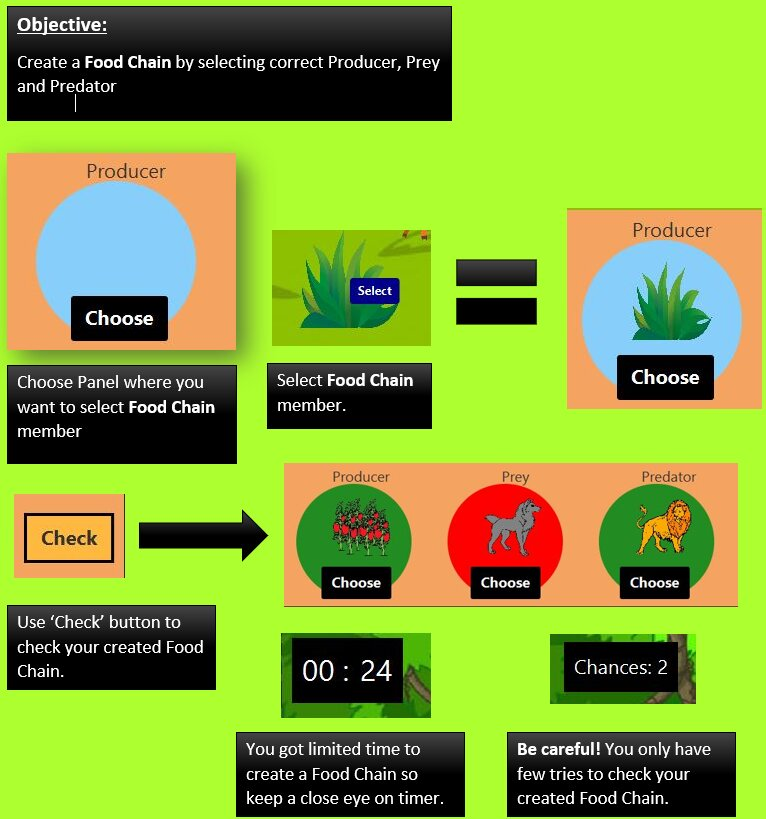
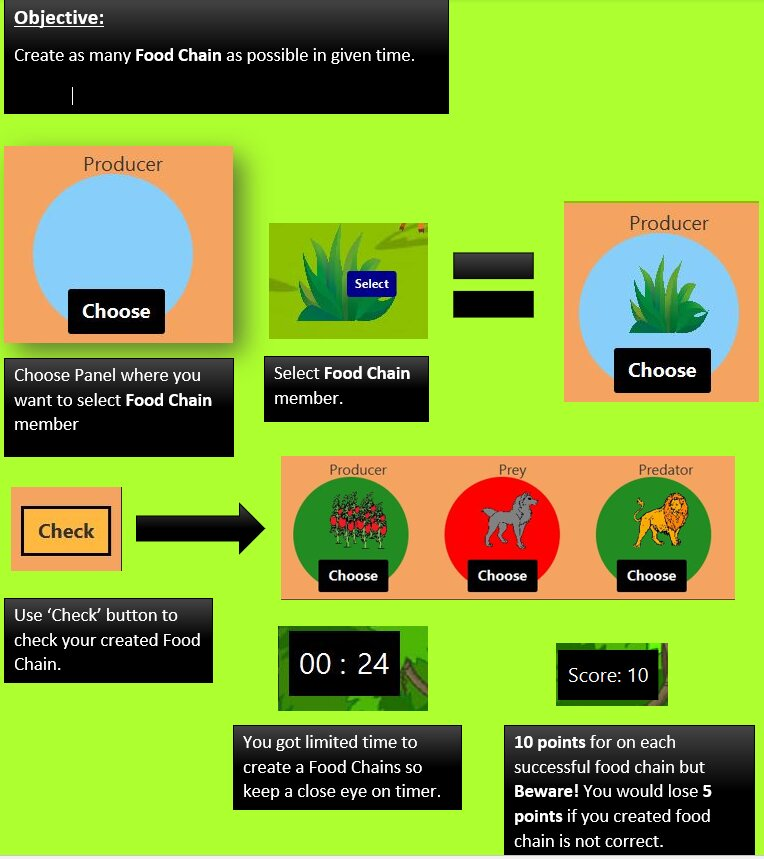
final update

diff --git a/src/main/java/uos/foodchaingame/FoodChainView.java b/src/main/java/uos/foodchaingame/FoodChainView.java
@@ -43,7 +43,7 @@ public class FoodChainView {
 	// Panels
 	protected Circle selectedProducer, selectedPrey, selectedPredator;
 	// Images of selected object on panels
-	private ImageView selectedProducerImg, selectedPreyImg, selectedPredatorImg;
+	protected ImageView selectedProducerImg, selectedPreyImg, selectedPredatorImg;
 	
 	// Button to select panels
 	protected Button chooseProducer, choosePrey, choosePredator, check;
@@ -65,9 +65,10 @@ public class FoodChainView {
 	
 	private Label objectiveHeading, objective;
 	
-	private int chances;
-	protected Label chancesLbl;
+	private int score;
+	protected Label scoreLbl;
 	
+	protected Label errorLbl;
 	private Label result;
 
 	/**
@@ -80,9 +81,7 @@ public class FoodChainView {
 		this.root = root;
 		this.model = model;
 		countDownTime = Timer.getInstance(); // Singleton and the only instance of Timer class
-		isWin = false;
-		isLose = false;
-		chances = 2;
+		score = 0;
 		
 		// Canvas to display all food chain members
 		jungle = new Canvas(1000, 600);
@@ -169,9 +168,15 @@ public class FoodChainView {
 		// Check if use has selected right members on right panels
 		check = new Button("Check");
 		check.setLayoutX(900);
-		check.setLayoutY(700);
+		check.setLayoutY(650);
 		check.setStyle("-fx-background-color: #ffb940; -fx-font-size: 20px; -fx-border-color: black; -fx-font-weight: bold; -fx-border-width: 3px;");
 		root.getChildren().add(check);
+		
+		errorLbl = new Label();
+		errorLbl.setLayoutX(670);
+		errorLbl.setLayoutY(750);
+		errorLbl.setStyle("-fx-font-size: 16px; -fx-font-weight: bold;");
+		root.getChildren().add(errorLbl);
 		
 		// Display timer seconds
 		seconds = new Label();
@@ -191,21 +196,21 @@ public class FoodChainView {
 		objectiveHeading = new Label("Objective");
 		objectiveHeading.setStyle("-fx-text-fill: #FFFFFF; -fx-font-size: 30px; -fx-font-weight: bold;");
 		
-		objective = new Label("* Create a FOOD CHAIN.");
+		objective = new Label("* Create as many Food Chain as \npossible in given time.");
 		objective.setStyle("-fx-text-fill: #FFFFFF;-fx-font-size: 20px;");
 		
 		VBox gameObjective = new VBox(5, objectiveHeading, objective);
-		gameObjective.setLayoutX(750);
+		gameObjective.setLayoutX(650);
 		gameObjective.setLayoutY(10);
 		gameObjective.setStyle("-fx-padding: 10px; -fx-background-color: black;");
 		root.getChildren().add(gameObjective);
 		
-		// Display chances left to finish the game
-		chancesLbl = new Label("Chances: " + chances);
-		chancesLbl.setLayoutX(200);
-		chancesLbl.setLayoutY(10);
-		chancesLbl.setStyle("-fx-padding: 10px; -fx-background-color: black; -fx-text-fill: white; -fx-font-size: 20px");
-		root.getChildren().add(chancesLbl);
+		// Display player score
+		scoreLbl = new Label("Score: " + score);
+		scoreLbl.setLayoutX(200);
+		scoreLbl.setLayoutY(10);
+		scoreLbl.setStyle("-fx-padding: 10px; -fx-background-color: black; -fx-text-fill: white; -fx-font-size: 20px");
+		root.getChildren().add(scoreLbl);
 	}
 	
 	/**
@@ -403,25 +408,52 @@ public class FoodChainView {
 				setMinutes(); // Display updated minutes
 				setSeconds(); // Display updated seconds
 				
-				// If count down time is over then stop the timer
-				if (countDownTime.getMinutes() == 0 & countDownTime.getSeconds() == 0)
+				// If count down time is over then stop the timer or if 
+				// player have guessed all possible food chains
+				if ((countDownTime.getMinutes() == 0 && countDownTime.getSeconds() == 0) || model.totalFoodChains() == model.foodChains.size())
 				{
-					timeline.stop();
-					// Set lose condition to true
-					isLose = true;
-					result.setText("Too Slow :(");
-					// System.out.println(isLose);
-				}
-				
-				// If one of the end condition is true
-				if (isLose || isWin)
-				{
-					timeline.stop(); // then stop timer
-					stage.setScene(scene); // change the scene or screen
+					timeline.stop(); // stop the timer
+					setResultText(); // Calculate the final percentage
+					stage.setScene(scene); // change the scene to result screen
 				}
 			}});
 		timeline.getKeyFrames().add(frame);
 		timeline.playFromStart();
+	}
+	
+	/**
+	 * Caculate the final percentage of the player
+	 */
+	private void setResultText()
+	{
+		int score = model.calculateTotalScore(this.score); // Player final score percentage
+		result.setText(score + "% ");
+		
+		// Set the final percentage on result screen with a message
+		// according to player's achieved percentage
+		if (score < 40)
+		{
+			result.setStyle("-fx-padding: 10px; -fx-background-color: red; -fx-text-fill: #ffffff; -fx-font-size: 80px; -fx-font-weight: bold;");
+			result.setText(result.getText() + ":( LOSER");
+		}
+		
+		if (score >= 40 && score < 65)
+		{
+			result.setStyle("-fx-padding: 10px; -fx-background-color: orange; -fx-font-size: 60px; -fx-font-weight: bold;");
+			result.setText(result.getText() + " bit faster next time");
+		}
+		
+		if (score >= 65 && score < 90)
+		{
+			result.setStyle("-fx-padding: 10px; -fx-background-color: #87ff69; -fx-font-size: 80px; -fx-font-weight: bold;");
+			result.setText(result.getText() + " Well Done");
+		}
+		
+		if (score >= 90)
+		{
+			result.setStyle("-fx-padding: 10px; -fx-background-color: green; -fx-text-fill: #ffffff; -fx-font-size: 80px; -fx-font-weight: bold;");
+			result.setText(result.getText() + ":) LEGEND");
+		}
 	}
 	
 	// Getters and Setters methods for Fields or class variables 
@@ -442,12 +474,12 @@ public class FoodChainView {
 		this.isLose = isLoser;
 	}
 	
-	public int getChances() {
-		return chances;
+	public int getScore() {
+		return score;
 	}
 
-	public void setChances(int chances) {
-		this.chances = chances;
+	public void setScore(int chances) {
+		this.score = chances;
 	}
 
 	public Stage getStage() {

diff --git a/src/main/java/uos/foodchaingame/FoodChainController.java b/src/main/java/uos/foodchaingame/FoodChainController.java
@@ -3,6 +3,8 @@
  */
 package uos.foodchaingame;
 
+import java.util.ArrayList;
+
 import javafx.event.Event;
 import javafx.event.EventHandler;
 import javafx.scene.paint.Color;
@@ -111,58 +113,74 @@ public class FoodChainController implements EventHandler{
 			boolean checkPrey = model.checkPanels(view.chosenPrey, model.prey);
 			boolean checkPredator = model.checkPanels(view.chosenPredator, model.predator);
 			
-//			System.out.println(checkProducer + " " + view.chosenProducer);
-//			System.out.println(checkPrey + " " + view.chosenPrey);
-//			System.out.println(checkPredator + " " + view.choosePredator);
+			ArrayList<GameObject> foodChain = new ArrayList<GameObject>();
+			foodChain.add(view.chosenProducer);
+			foodChain.add(view.chosenPrey);
+			foodChain.add(view.chosenPredator);
 			
 			// If player selected food chain member is correct
 			// Then use correct member strategy
 			// if not then use wrong member strategy
-			if (checkProducer)
-				view.setPanelStrategy(correctMemberStrategy);
-			else
-				view.setPanelStrategy(wrongMemberStrategy);
-			view.executePanelStrategy(view.selectedProducer);
-			
-			if (checkPrey)
-				view.setPanelStrategy(correctMemberStrategy);
-			else
-				view.setPanelStrategy(wrongMemberStrategy);
-			view.executePanelStrategy(view.selectedPrey);
-			
-			if (checkPredator)
-				view.setPanelStrategy(correctMemberStrategy);
-			else
-				view.setPanelStrategy(wrongMemberStrategy);
-			view.executePanelStrategy(view.selectedPredator);
-			
-			// If player created food chain is correct then
-			if (checkProducer && checkPrey && checkPredator)
+			// Check if player created Food Chain doesn't exist yet
+			if (!model.checkFoodChain(foodChain))
 			{
-				// Set Condition to win
-				view.setWin(true);
-				// Set result text on result screen 
-				view.getResult().setText("Success :)");
-			}
-			else
-			{
-				// If player created food chain is not correct
-				// If chances are less than 1
-				if (view.getChances() < 1)
+				if (checkProducer)
+					view.setPanelStrategy(correctMemberStrategy);
+				else
+					view.setPanelStrategy(wrongMemberStrategy);
+				view.executePanelStrategy(view.selectedProducer);
+
+				if (checkPrey)
+					view.setPanelStrategy(correctMemberStrategy);
+				else
+					view.setPanelStrategy(wrongMemberStrategy);
+				view.executePanelStrategy(view.selectedPrey);
+
+				if (checkPredator)
+					view.setPanelStrategy(correctMemberStrategy);
+				else
+					view.setPanelStrategy(wrongMemberStrategy);
+				view.executePanelStrategy(view.selectedPredator);
+				
+				if (checkProducer && checkPrey && checkPredator)
 				{
-					// Set condition of lose
-					view.setLose(true);
-					view.getResult().setText("Game Over :(");
-					view.getStage().setScene(view.getScene());
+					model.addFoodChain(foodChain);
+					view.setScore(view.getScore() + 10);
+					
+					// Clear all panels
+					view.chosenProducer = null;
+					view.selectedProducerImg.setImage(null);
+					
+					view.chosenPrey = null;
+					view.selectedPreyImg.setImage(null);
+					
+					view.chosenPredator = null;
+					view.selectedPredatorImg.setImage(null);
 				}
 				else
 				{
-					// Otherwise decrease player chance
-					view.setChances(view.getChances() - 1);
-					// Update chances on screen
-					view.chancesLbl.setText("Chances: " + view.getChances());
+					// If player's created food chain is not valid then
+					// decrement the player score
+					if (view.getScore() >= 5)
+					{
+						view.setScore(view.getScore() - 5);
+					}
 				}
 			}
+			else
+			{
+				view.setPanelStrategy(wrongMemberStrategy);
+				view.executePanelStrategy(view.selectedProducer);
+				view.executePanelStrategy(view.selectedPrey);
+				view.executePanelStrategy(view.selectedPredator);
+				
+				if (view.getScore() >= 5)
+				{
+					view.setScore(view.getScore() - 5);
+				}
+				view.errorLbl.setText("You have already created this FOOD CHAIN");
+			}
+			view.scoreLbl.setText("Score: " + view.getScore());
 		}
 	}
 	

diff --git a/src/main/java/uos/foodchaingame/FoodChainModel.java b/src/main/java/uos/foodchaingame/FoodChainModel.java
@@ -3,6 +3,7 @@
  */
 package uos.foodchaingame;
 
+import java.util.ArrayList;
 import java.util.HashMap;
 import java.util.Map;
 
@@ -22,6 +23,8 @@ public class FoodChainModel {
 	protected Map<Button, GameObject> prey = new HashMap<Button, GameObject>();
 	protected Map<Button, GameObject> predator = new HashMap<Button, GameObject>();
 	
+	// Stores the player's created food chains
+	protected ArrayList<ArrayList<GameObject>> foodChains = new ArrayList<ArrayList<GameObject>>();
 	/**
 	 * Add members to their map 
 	 * @param member
@@ -60,5 +63,55 @@ public class FoodChainModel {
 			}
 		}
 		return found;
+	}
+	
+	/**
+	 * Adds player successfully created food chain to FoodChain list
+	 * @param foodChain
+	 */
+	public void addFoodChain(ArrayList<GameObject> foodChain)
+	{
+		foodChains.add(foodChain);
+	}
+	
+	/**
+	 * Check if given food chain doesn't already exist in food chain list
+	 * @param chain
+	 * @return
+	 */
+	public boolean checkFoodChain(ArrayList<GameObject> chain)
+	{
+		boolean found = false;
+		for (ArrayList<GameObject> foodChain : foodChains)
+		{
+			if (chain.equals(foodChain))
+			{
+				found = true;
+				break;
+			}
+		}
+		
+		return found;
+	}
+	
+	/**
+	 * Total number of possible food chains
+	 * @return
+	 */
+	public int totalFoodChains()
+	{
+		return producers.size() * prey.size() * predator.size();
+	}
+	
+	/**
+	 * Calculate total player score
+	 * @param score
+	 * @return
+	 */
+	public int calculateTotalScore(int score)
+	{
+		double totalScore = totalFoodChains() * 10;
+		double finalScore =  score / totalScore;
+		return (int)(finalScore * 100);
 	}
 }

diff --git a/src/main/java/uos/foodchaingame/FoodChainGame.java b/src/main/java/uos/foodchaingame/FoodChainGame.java
@@ -170,9 +170,9 @@ public class FoodChainGame extends Application{
 		
 		// Result text
 		resultText = new Label();
-		resultText.setLayoutX(280);
+		resultText.setLayoutX(240);
 		resultText.setLayoutY(150);
-		resultText.setStyle("-fx-padding: 10px; -fx-background-color: #000000; -fx-text-fill: #ffffff; -fx-font-size: 80px; -fx-font-weight: bold;");
+		// resultText.setStyle("-fx-padding: 10px; -fx-font-size: 80px; -fx-font-weight: bold;");
 		resultRoot.getChildren().add(resultText);
 		
 		// Home button to navigate to home screen
